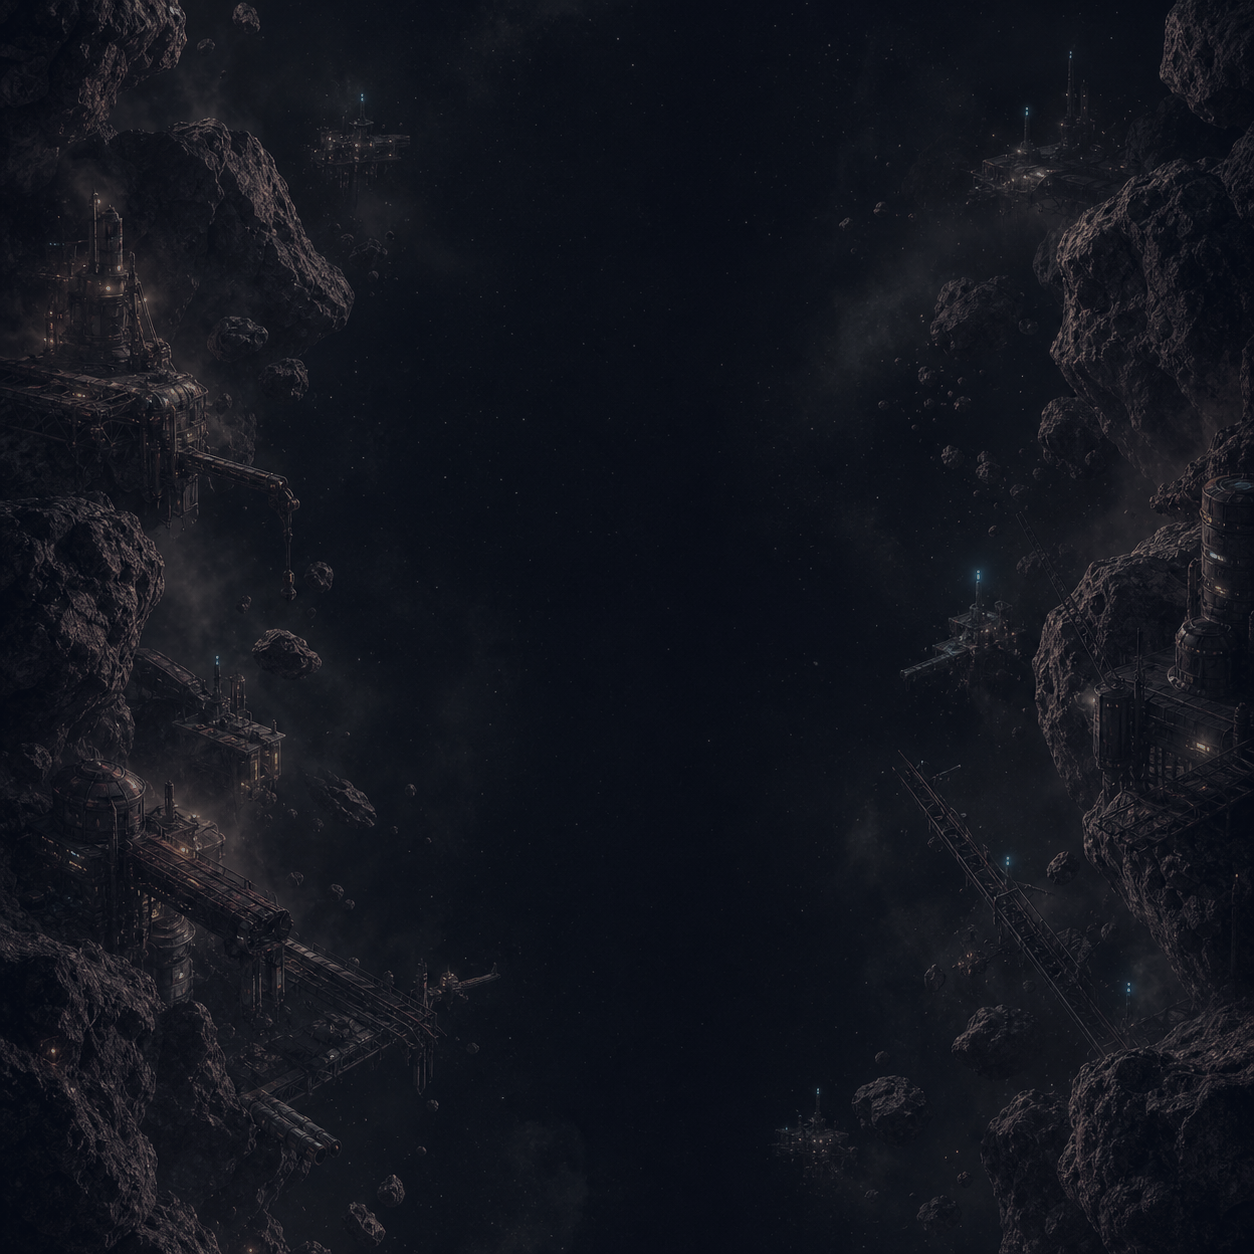
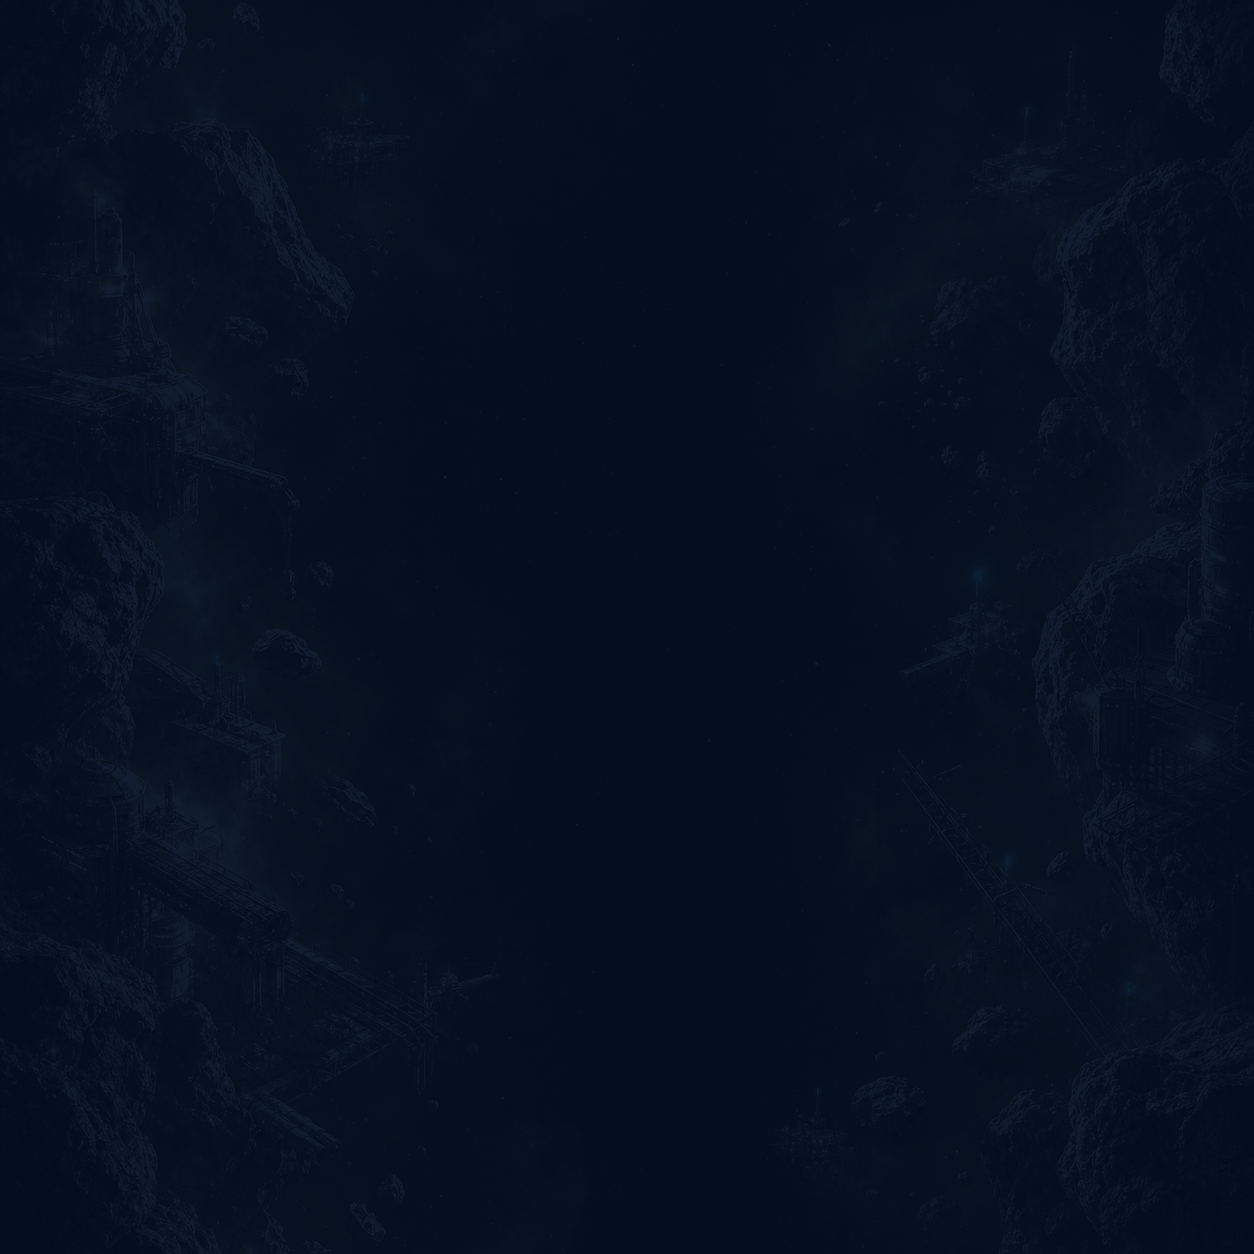
Restore LV2 frontier blue palette

diff --git a/www/lv2-parallax.js b/www/lv2-parallax.js
@@ -13,9 +13,9 @@ var LV2_PARALLAX = {
   midAlpha: 0.38,
   fxAlpha: 0.20,
   assets: {
-    far: 'assets/backgrounds/lv2/asteroid_drift_far.png?v=lv2-asteroid-drift-palette-20260525',
-    mid: 'assets/backgrounds/lv2/asteroid_drift_mid.png?v=lv2-asteroid-drift-palette-20260525',
-    fx: 'assets/backgrounds/lv2/asteroid_drift_fx.png?v=lv2-asteroid-drift-palette-20260525'
+    far: 'assets/backgrounds/lv2/asteroid_drift_far.png?v=lv2-frontier-blue-20260525',
+    mid: 'assets/backgrounds/lv2/asteroid_drift_mid.png?v=lv2-frontier-blue-20260525',
+    fx: 'assets/backgrounds/lv2/asteroid_drift_fx.png?v=lv2-frontier-blue-20260525'
   }
 };
 

diff --git a/www/index.html b/www/index.html
@@ -119,7 +119,7 @@
   <script src="hc-hitbox-debug.js"></script>
   <script src="hc-hitbox-fairness.js"></script>
   <script src="lv1-parallax.js"></script>
-  <script src="lv2-parallax.js?v=lv2-asteroid-drift-palette-20260525"></script>
+  <script src="lv2-parallax.js?v=lv2-frontier-blue-20260525"></script>
   <script src="sprite-system.js"></script>
   <script src="hardcore-config.js"></script>
   <script src="hardcore-rank.js"></script>